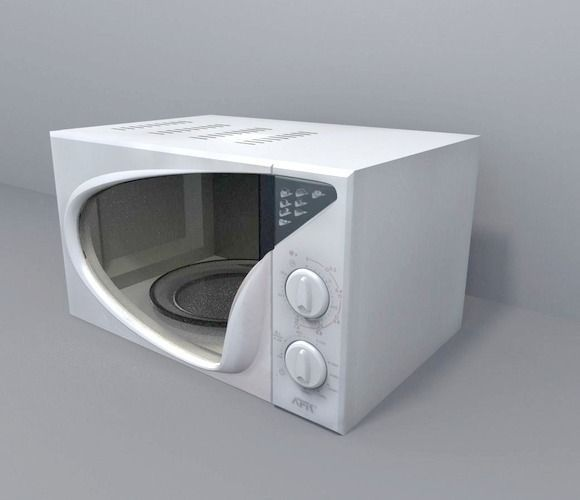
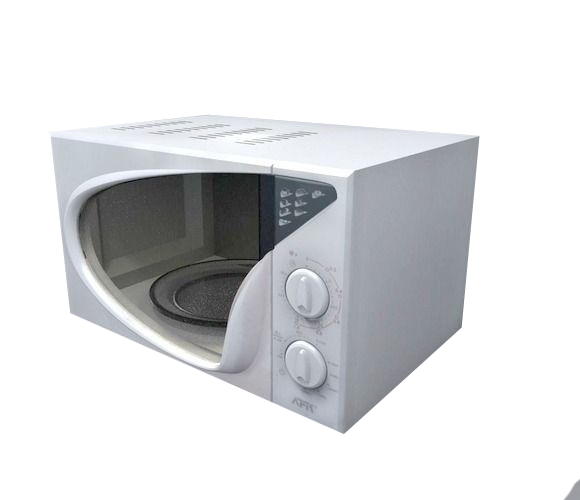
menu patch 2.0 image used instead of 3d objects

diff --git a/Assets/Scripts/ARTapToPlaceObject.cs b/Assets/Scripts/ARTapToPlaceObject.cs
@@ -284,6 +284,7 @@ public class ARTapToPlaceObject : MonoBehaviour
             animator5.SetTrigger("RightButton");
             animator6.SetTrigger("RightButton");
             trashAnimator.SetTrigger("trashFadeOut");
+            notSelect = true;
         }
     }
 
@@ -555,10 +556,10 @@ public class ARTapToPlaceObject : MonoBehaviour
     {
         if (notSelect)
         {
-            TypeSelectorAnimator.SetTrigger("Trigger");
+            TypeSelectorAnimator.SetTrigger("Toggle");
             ToggleMainMenu();
-            TypeSelectorCircle.SetTrigger("Trigger");
-            SelectorCircle.SetTrigger("Trigger");
+            TypeSelectorCircle.SetTrigger("Toggle");
+            SelectorCircle.SetTrigger("Toggle");
         }
         notSelect = true;
     }
